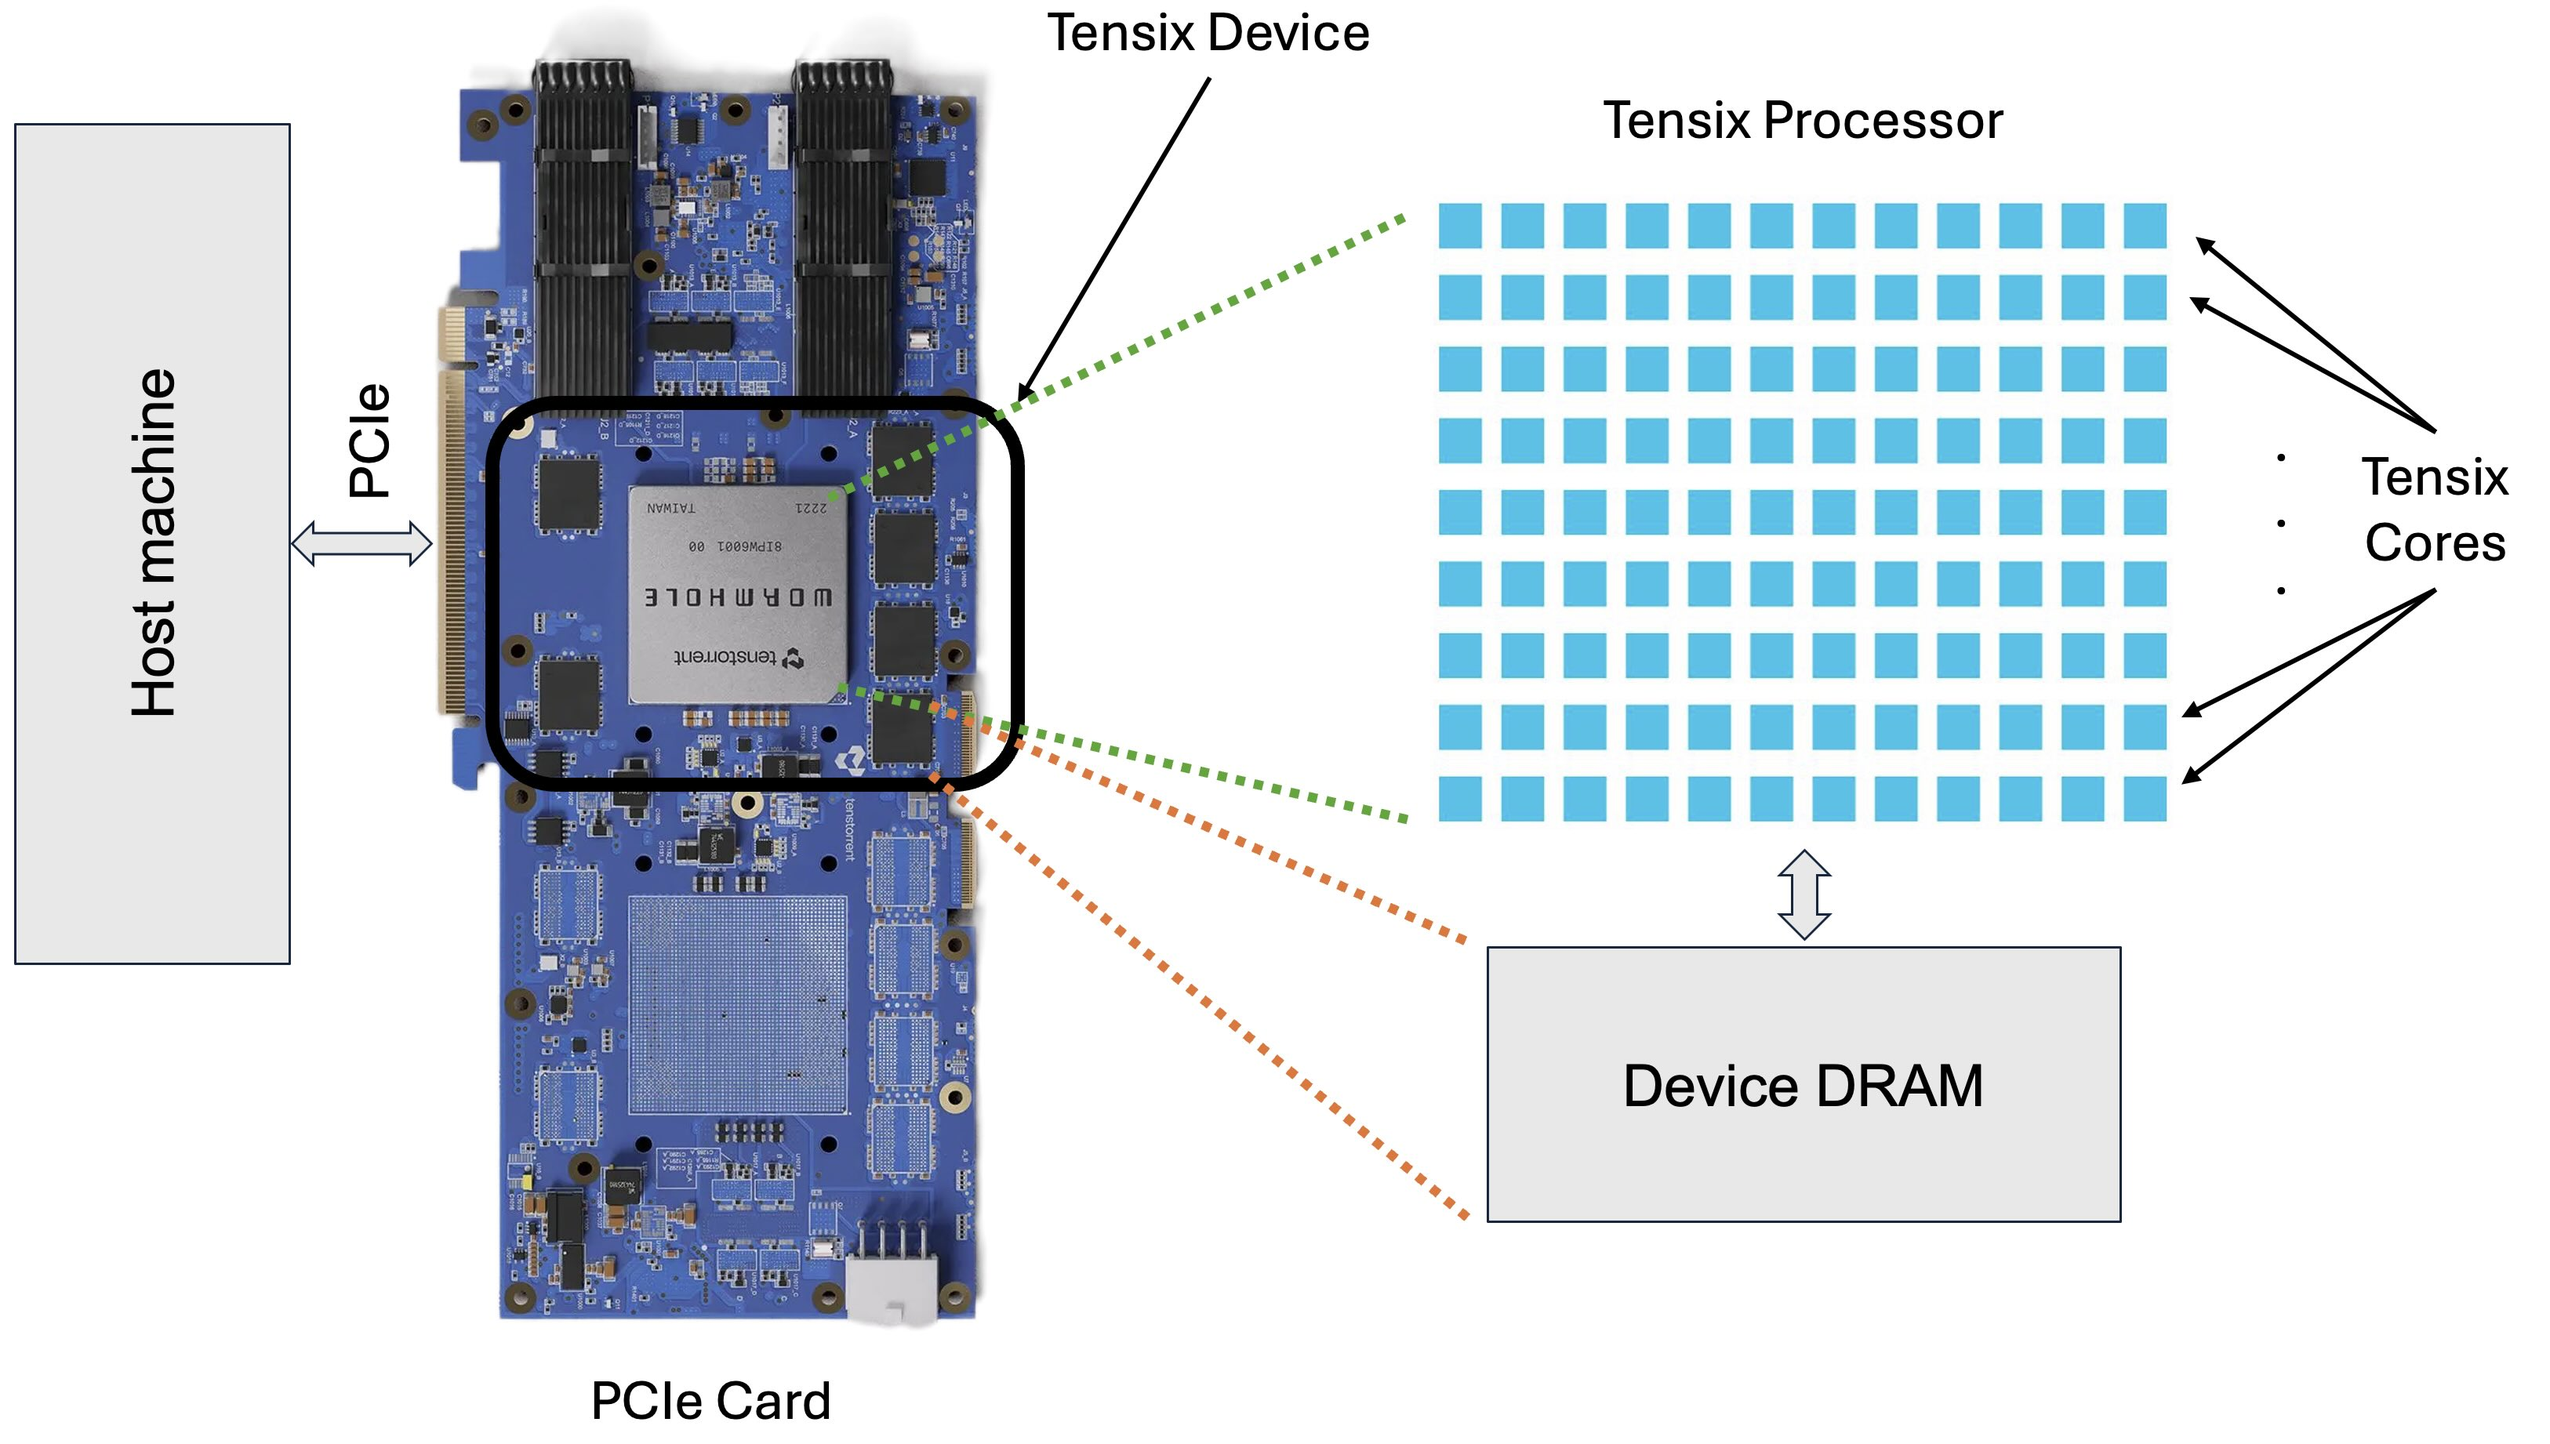
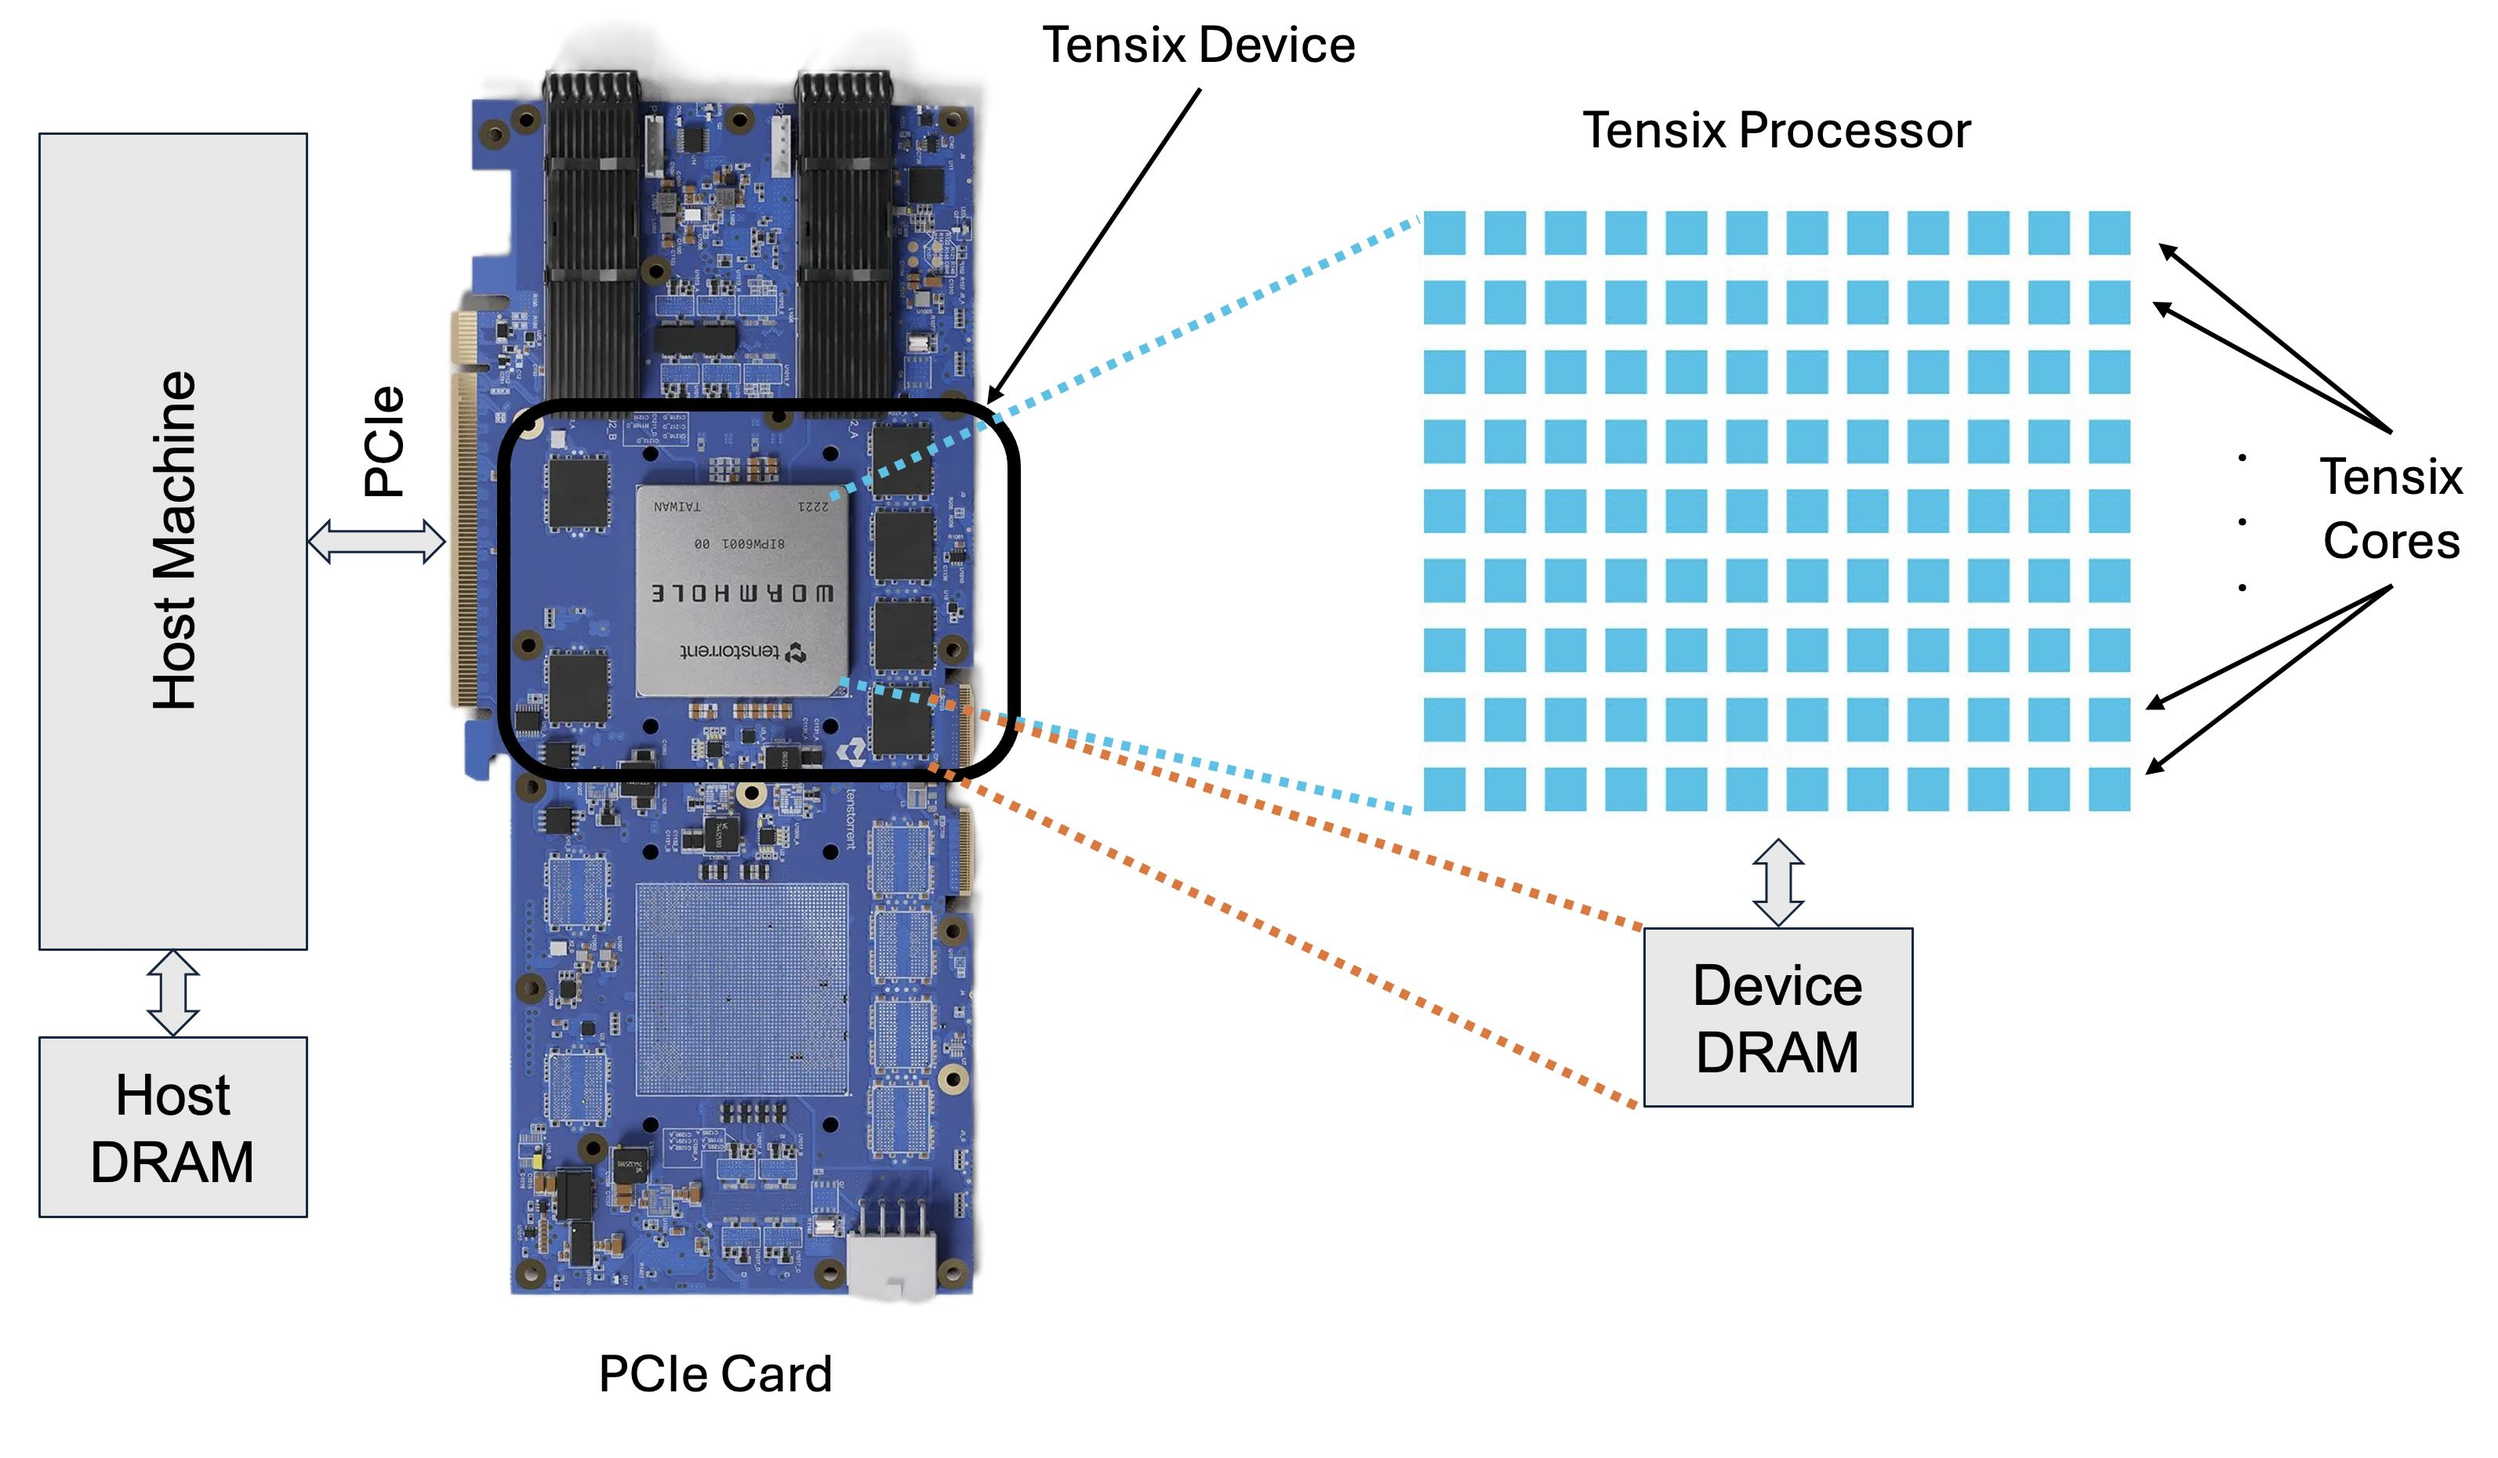
Updated figure to include host DRAM

diff --git a/docs/source/ttnn/ttnn/labs/matmul/lab1/lab1.rst b/docs/source/ttnn/ttnn/labs/matmul/lab1/lab1.rst
@@ -66,10 +66,10 @@ Conversely, accessing matrix elements column-by-column is cache-unfriendly becau
 
 **Implications for Matrix Multiplication**
 
-In the standard matrix multiplication algorithm ``C = A * B``, where ``C[i][j] = Σₖ A[i][k] * B[k][j]``:
-Assuming i, j, k loop order:
-- Accessing matrix **A** is cache-friendly because consecutive elements in memory are accessed one after another for two consecutive values of inner loop iterator ``k``.
-- Accessing matrix **B** is not cache-friendly because memory accesses skip whole matrix rows for two consecutive values of ``k``.
+In the standard matrix multiplication algorithm ``C = A * B``, where :math:`C[i][j] = \sum_k A[i][k] \cdot B[k][j]`, and assuming ``i``, ``j``, ``k`` loop order:
+
+* Accessing matrix **A** is cache-friendly because consecutive elements in memory are accessed one after another for two consecutive values of inner loop iterator ``k``.
+* Accessing matrix **B** is not cache-friendly because memory accesses skip whole matrix rows for two consecutive values of ``k``.
 
 This asymmetry significantly impacts performance and motivates various optimization techniques such as loop reordering or tiling.
 
@@ -963,7 +963,7 @@ Matrix Multiplication in TT-Metalium
 Now that you have a basic understanding of using the TT-Metalium APIs and building data movement and compute kernels,
 we can look at a more complex example of matrix multiplication.
 As described earlier, matrix multiplication can be decomposed into a series of tile multiplications via tiling.
-In exercise 1, you implemented a tiled version of matrix multiplication by identifying appropriate indices in the input and output matrices,
+In Exercise 1, you implemented a tiled version of matrix multiplication by identifying appropriate indices in the input and output matrices,
 which were organized in a row-major layout, and then performing the necessary arithmetic operations on these smaller tiles.
 We will now show how the same can be achieved in TT-Metalium, while taking advantage of the built-in tiled memory layout.
 
@@ -1070,7 +1070,7 @@ Start by copying the files from the ``lab_eltwise_binary`` directory into a new 
 You will need to make the following changes:
 
 1. Update the host program to create input vectors of appropriate sizes for matrix multiplication, and copy golden reference matrix multiplication you created in
-   exercise 1 to verify the results. Similarly, you will need to update tensor creation code to create tensors of appropriate sizes for matrix multiplication and to
+   Exercise 1 to verify the results. Similarly, you will need to update tensor creation code to create tensors of appropriate sizes for matrix multiplication and to
    pass required parameters to kernels.
 
 2. Update the compute kernel to perform matrix multiplication rather than elementwise addition.
@@ -1095,7 +1095,7 @@ You will need to make the following changes:
 
 6. Update ``CMakeLists.txt`` in the parent folder to add the new subdirectory to the list of subdirectories to build.
 
-7. Run the program and verify the results by comparing the results with the golden reference matrix multiplication you created in exercise 1.
+7. Run the program and verify the results by comparing the results with the golden reference matrix multiplication you created in Exercise 1.
    Note that because of limited precision of bfloat16, the results may not be exactly the same as the golden reference, but they should be
    numerically close (relative differences on the order of a few percent for input data in the range of 0-1).
 
